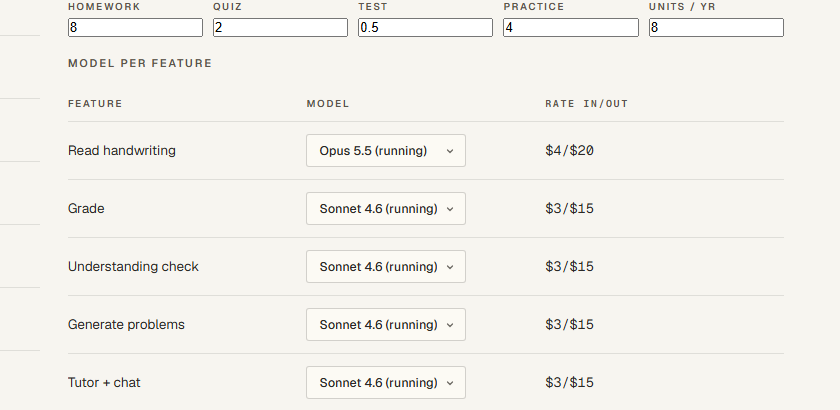
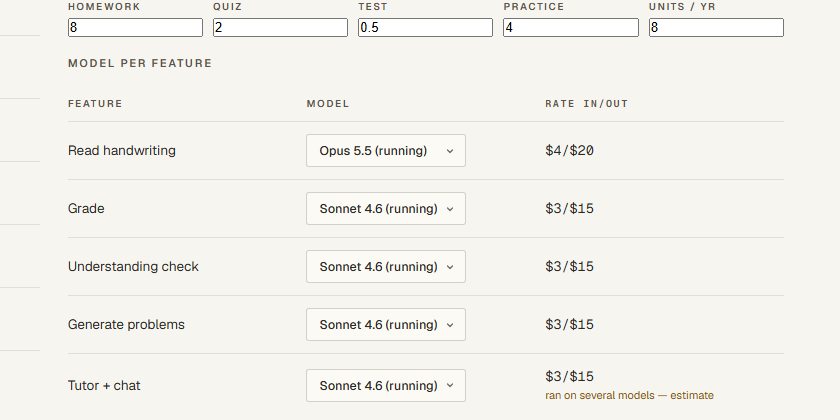
fix: review round 4 — typecheck the tests, and stop repricing the unmapped
The tests added in round 3 were typechecked by NOTHING, and the comment
claiming otherwise was wrong: `node --experimental-strip-types` strips
types, it does not check them, and excluding tests from tsconfig.app.json
without a replacement project left them unchecked entirely. Verified by
putting `const nope: number = "not a number"` in a test — `tsc -b` exited
0 and `npm test` passed. The fixtures hand-build UnitCost /
UnitFunction / UnitEconomicsData, so a backend field addition (exactly
what window_too_short just was) would leave them green against a shape
the app never receives. tsconfig.test.json now checks them; the same
scratch error fails the build.

The unmapped-function guard had been defeated by round 3's own fix.
Seeding by featureFor() let "other" become a real entry in the model
map, so an unmapped leg was silently repriced instead of falling back to
measured cost with unpriced=true — breaking the contract featureFor's
docstring states, and exactly the guard that catches the NEXT mode added
without an llm_modes entry. This file's history shows that happening
repeatedly. The guard now lives in the pricing path rather than at the
seeding site, so nothing that writes an "other" entry can defeat it.

anyUnpriced was assigned only inside the submission loop, so an
unpriceable generation, teacher-side or self-study leg left its knob
inert with nothing on screen explaining why — the same defect round 2
[…]

diff --git a/dashboard/src/pages/UnitEconomics.tsx b/dashboard/src/pages/UnitEconomics.tsx
@@ -143,6 +143,12 @@ export default function UnitEconomics() {
   // Which knobs the window actually measured, as opposed to ones holding
   // a fallback. "Chosen" is not "measured".
   const [measuredKnobs, setMeasuredKnobs] = useState<Set<string>>(new Set());
+  // Knobs whose legs did not all run on one model. One <select> cannot
+  // reproduce measured cost for those — whichever model is picked,
+  // some leg is repriced off a profile it never ran on — and the
+  // heaviest-leg default picks the most expensive member, which biases
+  // the row upward. The page says so rather than implying it is exact.
+  const [mixedKnobs, setMixedKnobs] = useState<Set<string>>(new Set());
   const models = useMemo(
     () => ({ ...seededModels, ...urlModels }),
     [seededModels, urlModels],
@@ -189,17 +195,29 @@ export default function UnitEconomics() {
         // appears in no bucket list at all so its knob was never seeded.
         const seeded: ModelChoice = {};
         const spend: Record<string, number> = {};
+        const seenModels: Record<string, Set<string>> = {};
         for (const [kind, fns] of Object.entries(d.functions_by_unit)) {
           for (const fn of fns) {
             const key = featureFor(fn.function, kind);
+            // Never seed "other". It is not a knob — it has no row in
+            // the picker, so a model chosen for it would be invisible
+            // and unchangeable — and giving it one would silently
+            // reprice an unmapped function instead of surfacing it.
+            // That guard is the only thing that catches the NEXT mode
+            // added without an llm_modes entry, which this file's own
+            // history shows happening repeatedly.
+            if (key === "other") continue;
             const id = fn.measured_catalog_id;
             // measured_catalog_id, not measured_model: the raw id can
             // carry a date pin that matches no <option> value, which
             // makes the select fall back to the first model in the list.
             // Heaviest leg wins, so a knob reflects where its money goes.
-            if (id && fn.cost_per_unit > (spend[key] ?? -1)) {
-              spend[key] = fn.cost_per_unit;
-              seeded[key] = id;
+            if (id) {
+              (seenModels[key] ??= new Set()).add(id);
+              if (fn.cost_per_unit > (spend[key] ?? -1)) {
+                spend[key] = fn.cost_per_unit;
+                seeded[key] = id;
+              }
             }
           }
         }
@@ -217,6 +235,13 @@ export default function UnitEconomics() {
         }
         setSeededModels(seeded);
         setMeasuredKnobs(new Set(Object.keys(spend)));
+        setMixedKnobs(
+          new Set(
+            Object.entries(seenModels)
+              .filter(([, models]) => models.size > 1)
+              .map(([key]) => key),
+          ),
+        );
       })
       .catch((e) => !cancelled && setError(String(e?.message ?? e)))
       .finally(() => !cancelled && setLoading(false));
@@ -571,6 +596,15 @@ export default function UnitEconomics() {
                       {!measuredHere && (
                         <div className="empty-state-sub" style={{ fontSize: 11 }}>
                           not measured in this window
+                        </div>
+                      )}
+                      {mixedKnobs.has(b.key) && (
+                        <div
+                          className="empty-state-sub"
+                          style={{ fontSize: 11, color: "var(--warn)" }}
+                          title="These calls ran on more than one model, so one model cannot reproduce the measured cost for this row"
+                        >
+                          ran on several models — estimate
                         </div>
                       )}
                     </td>

diff --git a/dashboard/src/lib/marginModel.test.ts b/dashboard/src/lib/marginModel.test.ts
@@ -275,3 +275,92 @@ test("graph and drawing checks sit under grading", () => {
 test("an unmapped function is 'other', never silently priced", () => {
   assert.equal(featureFor("some_new_mode_we_added", "submission:homework"), "other");
 });
+
+// ── Review round 4 ───────────────────────────────────────────────────
+
+test("an unmapped function is never silently repriced", () => {
+  // featureFor returns "other" for anything unmapped, and the picker has
+  // no row for it — so a model chosen for "other" would be invisible and
+  // unchangeable. The leg must fall back to measured cost and say so.
+  const d = data({
+    functions_by_unit: {
+      "submission:homework": [
+        fn("some_mode_nobody_mapped", { [OPUS]: 0.9, [HAIKU]: 0.01 }),
+      ],
+    },
+  });
+  const r = computeMargin(d, scenario({ models: { other: HAIKU } }));
+  const hw = r.lines.find((l) => l.key === "submission:homework");
+  assert.ok(hw);
+  assert.equal(
+    hw!.perStudentMonth,
+    0.9,
+    "an unmapped leg must hold its measured cost, not be repriced",
+  );
+  assert.equal(r.anyUnpriced, true, "and must light the banner");
+});
+
+test("an unpriceable generation leg lights the banner", () => {
+  // anyUnpriced used to be assigned only inside the submission loop, so
+  // a generation / teacher / self-study leg that could not be repriced
+  // left the knob inert with nothing on screen explaining why.
+  const d = data({
+    units: [
+      ...data().units.filter((u) => u.kind !== "generation:unit"),
+      unit("generation:unit", { n: 10, cost_mean: 1, cost_median: 1 }),
+    ],
+    functions_by_unit: {
+      // A model retired from the catalog reprices to null for every
+      // target, which is what a 90-day window can contain.
+      "generation:unit": [
+        fn("generate_questions", { [OPUS]: null, [HAIKU]: null }, {
+          cost_per_unit: 1,
+          self_reprice: null,
+        }),
+      ],
+    },
+  });
+  const r = computeMargin(
+    d,
+    scenario({ homework: 0, unitsPerYear: 8, models: { generation: OPUS } }),
+  );
+  assert.equal(r.anyUnpriced, true);
+});
+
+test("a row that is both thin and short reports BOTH", () => {
+  // Clearing `thin` whenever the window was short hid a 2-teacher sample
+  // for as long as the short-window flag was up. The two need different
+  // actions: collect more data, or widen the window.
+  const d = data({
+    units: [
+      ...data().units.filter((u) => u.kind !== "residual:teacher"),
+      unit("residual:teacher", {
+        n: 2, cost_mean: 500, cost_median: 500,
+        sufficient: false, window_too_short: true,
+      }),
+    ],
+  });
+  const r = computeMargin(d, scenario({ homework: 0 }));
+  const line = r.lines.find((l) => l.key === "residual:teacher");
+  assert.ok(line);
+  assert.equal(line!.shortWindow, true, "the window is short");
+  assert.equal(line!.thin, true, "and 2 observations is also thin");
+  assert.equal(r.anyThin, true, "so the thin warning must still fire");
+});
+
+test("a well-sampled short-window row is not called thin", () => {
+  const d = data({
+    units: [
+      ...data().units.filter((u) => u.kind !== "residual:student"),
+      unit("residual:student", {
+        n: 50, cost_mean: 288, cost_median: 288,
+        sufficient: false, window_too_short: true,
+      }),
+    ],
+  });
+  const line = computeMargin(d, scenario({ homework: 0 })).lines.find(
+    (l) => l.key === "residual:student",
+  );
+  assert.ok(line);
+  assert.equal(line!.thin, false, "50 observations is not a thin sample");
+});

diff --git a/dashboard/src/lib/marginModel.ts b/dashboard/src/lib/marginModel.ts
@@ -114,7 +114,16 @@ function repricedUnitCost(
   let cost = 0;
   let unpriced = false;
   for (const fn of fns) {
-    const chosen = models[featureFor(fn.function, unitKind)];
+    const feature = featureFor(fn.function, unitKind);
+    // An unmapped function is never priced, whatever the model map
+    // happens to contain. The guard lives HERE rather than at the
+    // seeding site so it cannot be defeated by anything that writes an
+    // "other" entry — a URL parameter, a future caller, a refactor.
+    // "other" has no row in the picker, so a model chosen for it would
+    // be invisible and unchangeable, and repricing it would hide the
+    // next mode added without an llm_modes entry instead of surfacing
+    // it.
+    const chosen = feature === "other" ? undefined : models[feature];
     const repriced = chosen ? fn.reprice[chosen] : undefined;
     if (repriced === undefined || repriced === null) {
       cost += fn.cost_per_unit;
@@ -239,14 +248,22 @@ export function computeMargin(
     unpriced: studentCost.unpriced,
   });
 
-  // `thin` means too few observations and nothing else. A row whose
-  // `sufficient` was cleared purely by a short window is reported under
-  // `excluded`, because "collect more data" and "pick a longer window"
-  // send an operator to different places.
+  // `thin` is read from the sample size directly, not inferred from
+  // `sufficient` — the backend ANDs the sample check with the window
+  // check, so `sufficient: false` cannot say which applied, and a row
+  // that is BOTH thin and short would otherwise report only the window.
+  // The two need different actions: collect more data, or widen the
+  // window.
   for (const line of lines) {
-    if (line.shortWindow) line.thin = false;
+    const unit = unitOf(data, line.key);
+    line.thin = Boolean(unit) && unit!.n < data.min_sample;
   }
-  anyThin = anyThin || lines.some((l) => l.thin);
+  anyThin = lines.some((l) => l.thin);
+  // Derived from the lines, like anyThin. It used to be assigned only
+  // inside the submission loop, so an unpriceable generation, teacher
+  // or self-study leg went completely unannounced: the knob was inert
+  // and nothing said why.
+  anyUnpriced = anyUnpriced || lines.some((l) => l.unpriced);
 
   // A residual rate is cost / users / MONTHS. On a window far shorter
   // than a month that divisor goes to ~0 and the rate explodes: half an
